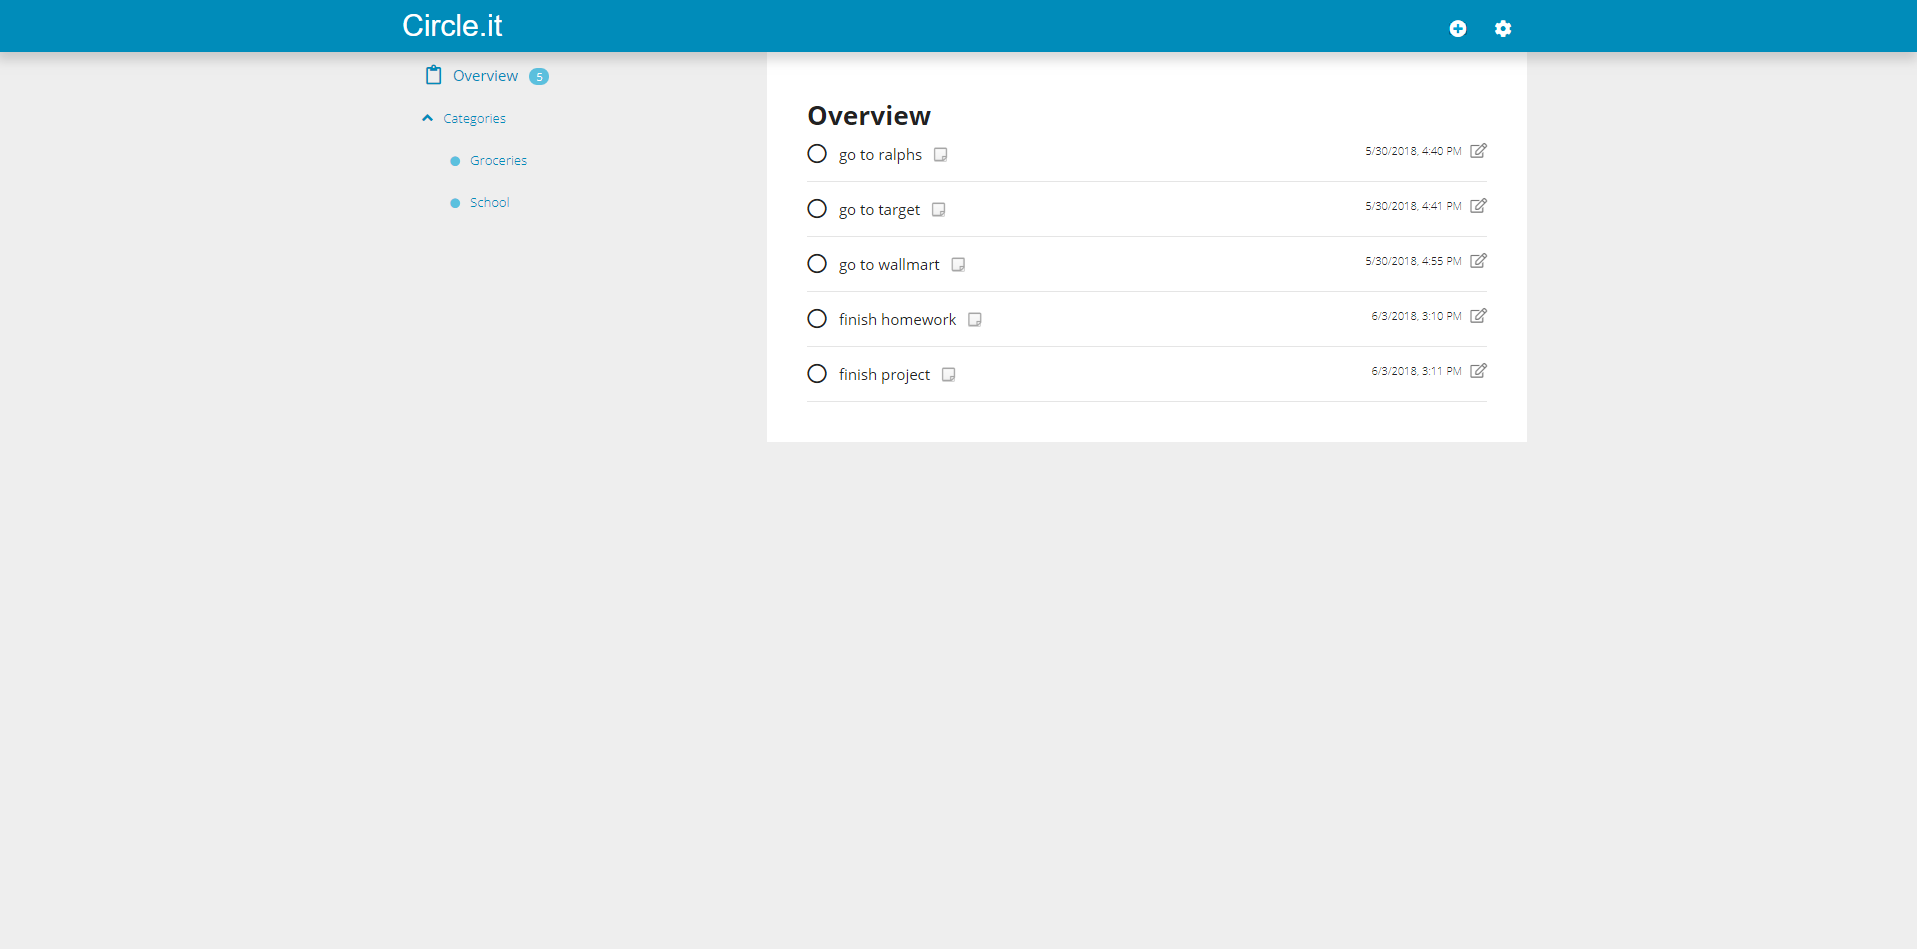
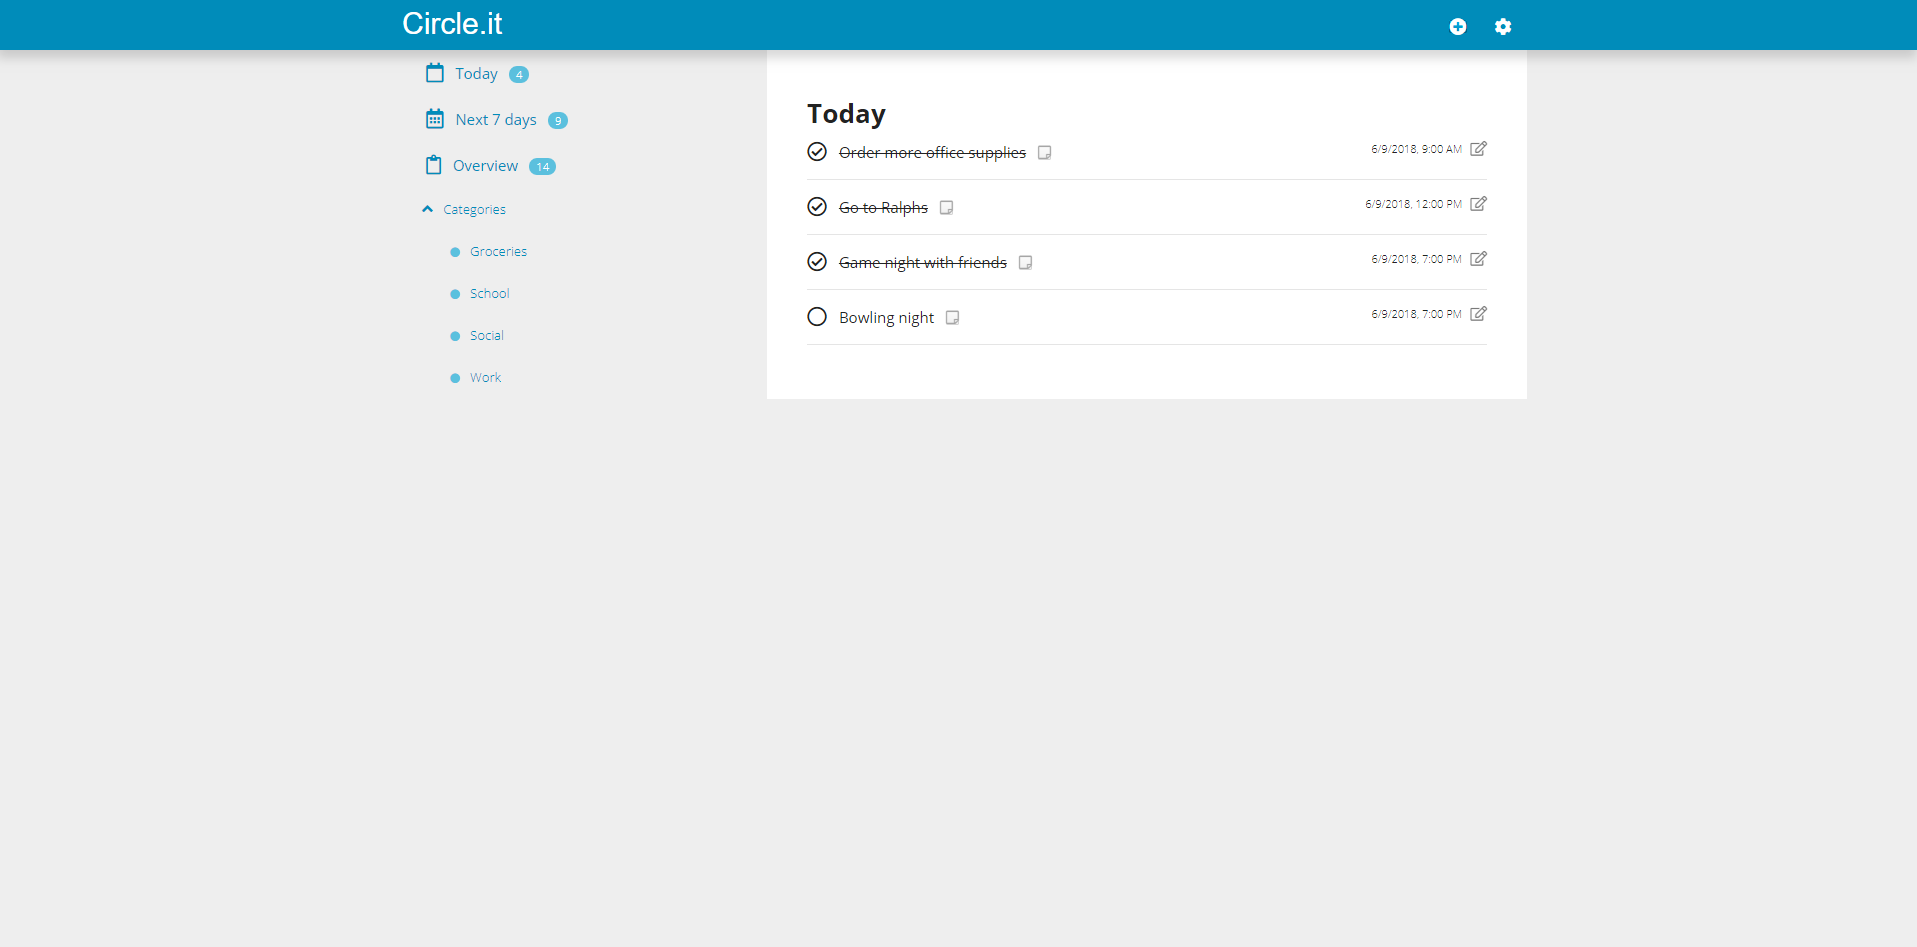
edit README and added new screenshot

diff --git a/README.md b/README.md
@@ -21,7 +21,12 @@ Landing Page:
 
 ![landing page](screenshot/landingPage.png)
 
+## Demo
 
+username: dummy
+password: dummy123
+
+Log in with a preexisting demo account listed above and give it a try.
 
 ## Built With
 
@@ -36,10 +41,18 @@ Landing Page:
 ## Features
 
 * Add, update, and delete tasks.
-* Categorize tasks.
+* Categorized tasks.
+* Filter by "Today", "Next 7 days", or specific category.
 * Attach notes to individual tasks.
 * Have due dates for individual tasks.
-* Mark tasks as complete.
+* Mark tasks as complete/incomplete.
+
+## Future implementations
+
+* Set priority levels.
+* Reminder and alarm feature.
+* Share and collaborate with other users.
+* Subtasks for each tasks.
 
 ## Author
 
